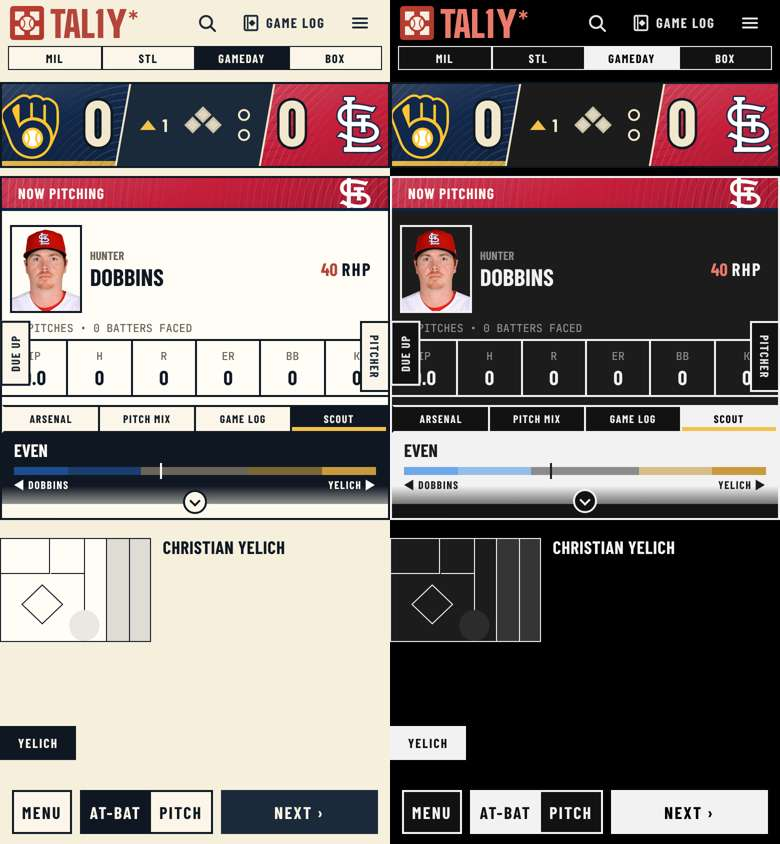
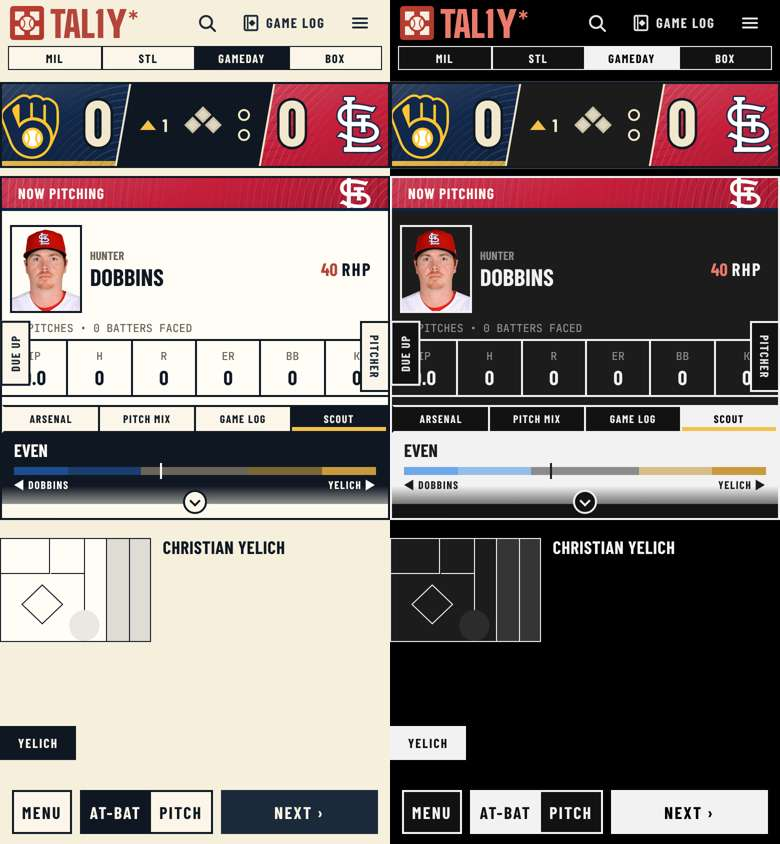
Night mode: keep light bands as before, band hairline, more marker-fill text
- --surface-band-deep for .inhead and .gdnext-band (the darkest ink in light,
  #1C1C1C at night); --surface-band stays navy for the other three bands.
- --band-hairline: a 1px outline on the five bands at night, transparent in light.
- Marker-filled rules that set their own text read --text-on-bright (umpire rank
  badge, hit-chart chip, postseason bracket note and marker, run-value lead rank).
- test: the dark block never redefines the seal or its ink.

Part of #2507.

Claude-Session: https://claude.ai/code/session_0143SztotM1SjiNbqN6vXkk2

Changed region(s): [[0.1538, 0.0924, 0.3385, 0.2156], [0.7385, 0.5853, 0.7692, 0.6161]]

diff --git a/src/tokens/colors.css b/src/tokens/colors.css
@@ -348,6 +348,10 @@
    light in both themes (the paper-2 value), so it is one literal and the dark block leaves it. */
 :root {
   --surface-band: var(--navy);
+  /* The deeper band of the score bug and the Gameday band: the darkest ink, as they were before night mode. */
+  --surface-band-deep: var(--ink-0);
+  /* The edge a band takes at night so it shows on black; nothing in light. */
+  --band-hairline: transparent;
   --text-on-band: #FBF6E9;
   /* Ink on a fill the ADR keeps bright in both themes (--marker, --award-line, the OVR tier
      colours). --text-heading turns light at night, and light text does not read on yellow. The ink
@@ -399,6 +403,8 @@
   --accent-tint: #1C3729;
   --text-on-ink: #000000;
   --surface-band: #1C1C1C;
+  --surface-band-deep: #1C1C1C;
+  --band-hairline: var(--border-rule);
   --album-foil: #FBF6E9;
   --book-board-red: #8E332B;
   --book-board-blue: #163A6B;
@@ -445,6 +451,8 @@
     --accent-tint: #1C3729;
     --text-on-ink: #000000;
     --surface-band: #1C1C1C;
+    --surface-band-deep: #1C1C1C;
+    --band-hairline: var(--border-rule);
     --album-foil: #FBF6E9;
     --book-board-red: #8E332B;
     --book-board-blue: #163A6B;

diff --git a/src/styles/gameday-next/page.css b/src/styles/gameday-next/page.css
@@ -78,7 +78,7 @@
    rules) in one ink row: away tile and runs, the plate, home runs and tile, then the pitcher. */
 /* layout-exempt: one row of five cells, the pitcher at the end */
 .gdnext-band { flex: 1; min-width: 0; display: flex; align-items: center;
-  gap: var(--space-3); padding: 0 var(--space-3); background: var(--surface-band); color: var(--text-on-band); border: var(--bw-heavy) solid var(--border-stamped); }
+  gap: var(--space-3); padding: 0 var(--space-3); background: var(--surface-band-deep); outline: var(--bw-hair) solid var(--band-hairline); color: var(--text-on-band); border: var(--bw-heavy) solid var(--border-stamped); }
 /* layout-exempt: a tile beside its runs */
 .gdnext-band__club { display: flex; align-items: center; gap: var(--space-2); }
 .gdnext-band__club--home { flex-direction: row-reverse; }

diff --git a/test/dark-theme-tokens.test.js b/test/dark-theme-tokens.test.js
@@ -13,3 +13,9 @@ test('the media-query dark block repeats the data-theme dark block exactly', () 
   assert.ok(attr && media, 'both dark blocks exist')
   assert.deepEqual(decls(media), decls(attr))
 })
+
+// The seal reads the same in both themes (ADR-0130 item 4, ADR-0083): kraft and its ink are never redefined at night.
+test('the dark block leaves the seal and its ink alone', () => {
+  const attr = css.match(/:root\[data-theme="dark"\]\s*\{([^}]*)\}/)[1]
+  assert.doesNotMatch(attr, /--(seal|text-on-seal)/)
+})

diff --git a/src/styles/80-postseason-bracket.css b/src/styles/80-postseason-bracket.css
@@ -68,7 +68,7 @@
 .pbkt-ws--bold .pbkt-box__note {
   display: inline-block;
   background: var(--marker);
-  color: var(--text-heading);
+  color: var(--text-on-bright);
   padding: 0 var(--space-1);
   border-radius: var(--radius-xs);
   font-family: var(--font-display);
@@ -336,7 +336,7 @@
 }
 .pbkt-marker {
   background: var(--marker);
-  color: var(--text-heading);
+  color: var(--text-on-bright);
   padding: 0 var(--space-1);
   border-radius: var(--radius-xs);
   font-family: var(--font-display);

diff --git a/src/styles/worldseries/roster.css b/src/styles/worldseries/roster.css
@@ -27,7 +27,7 @@
 /* The selected club tab wears that club's bar (--bar-fill / --bar-text, set per tab from the
    Identity Lab triad). A club with no triad keeps the ink fill. */
 .ww-roster .ww-roster__clubs .segmented__btn[aria-pressed='true'] {
-  background: var(--bar-fill, var(--surface-band));
+  background: var(--bar-fill, var(--surface-band-deep));
   border-color: var(--bar-fill, var(--border-stamped));
   color: var(--bar-text, var(--text-on-band));
 }

diff --git a/src/styles/gameview/inning-head.css b/src/styles/gameview/inning-head.css
@@ -16,7 +16,8 @@
   overflow: hidden;
   margin: var(--space-1) 0 var(--space-4);
   border: var(--bw-heavy) solid var(--border-stamped);
-  background: var(--surface-band);
+  background: var(--surface-band-deep);
+  outline: var(--bw-hair) solid var(--band-hairline);
   color: var(--text-on-band);
   box-shadow: var(--shadow-stamped);
 }

diff --git a/src/styles/69-hit-chart.css b/src/styles/69-hit-chart.css
@@ -126,7 +126,7 @@
 .hitchart__chip--on-marker {
   background: var(--marker);
   border-color: color-mix(in srgb, var(--marker) 70%, var(--text-heading));
-  color: var(--text-heading);
+  color: var(--text-on-bright);
 }
 
 /* Held just off full strength: on the highlighter chip this figure sits on

diff --git a/src/styles/44-pre-game-cards.css b/src/styles/44-pre-game-cards.css
@@ -177,6 +177,7 @@
   padding: 0 var(--space-2);
   border-radius: var(--radius-pill);
   background: var(--surface-band);
+  outline: var(--bw-hair) solid var(--band-hairline);
   color: var(--text-on-band);
   font-family: var(--font-display);
   font-size: var(--fs-label);

diff --git a/src/styles/68-around-the-game.css b/src/styles/68-around-the-game.css
@@ -33,6 +33,7 @@
   display: flex;
   margin: var(--space-4) 0 var(--space-6);
   background: var(--surface-band);
+  outline: var(--bw-hair) solid var(--band-hairline);
   color: var(--text-on-band);
   border-radius: var(--radius-sm);
   overflow: hidden;

diff --git a/src/styles/postseason/home.css b/src/styles/postseason/home.css
@@ -135,6 +135,7 @@
   display: grid;
   gap: var(--space-2h);
   background: var(--surface-band);
+  outline: var(--bw-hair) solid var(--band-hairline);
   color: var(--text-on-band);
   border-radius: var(--radius-sm);
 }

diff --git a/src/styles/38-umpire-pages.css b/src/styles/38-umpire-pages.css
@@ -276,7 +276,7 @@
   height: 21px;
   margin-left: 6px;
   border-radius: 999px;
-  color: var(--text-heading);
+  color: var(--text-on-bright);
   background: var(--marker);
   vertical-align: middle;
 }

diff --git a/src/styles/team-next/run-value/card.css b/src/styles/team-next/run-value/card.css
@@ -254,7 +254,7 @@
 }
 .rvrow--lead .rvrow__rank {
   background: var(--marker);
-  color: var(--text-heading);
+  color: var(--text-on-bright);
   font-weight: var(--w-bold);
 }
 .rvrow__frame {
